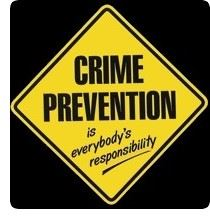
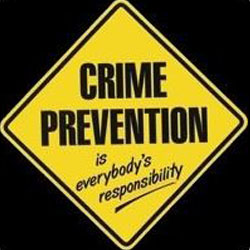
image resizing

diff --git a/resource-tip.html b/resource-tip.html
@@ -48,10 +48,10 @@
     </div>
   </nav>
 
-    <section id="top">
-        <img src="img/seattle-skyline.jpg" alt="Seattle Space Needle and buildings"
-            title="Image by Ally Laws from Pixabay" class="header-img">
-    </section>
+  <section id="top">
+    <img src="img/seattle-skyline.jpg" alt="Seattle Space Needle and buildings"
+        title="Image by Ally Laws from Pixabay" class="header-img">
+</section>
 
     <section id="section-0" class="container">
         <div class="jumbotron jumbotron-fluid bg-dark text-light">
@@ -69,7 +69,7 @@
             <div class="card-body">
               <div class="row">
                 <div class="col col-sm-auto col-xl-12">
-                  <img class="pb-3" src="img/crime-prevention.jpg" alt="Crime Prevention">
+                  <img class="pb-3 img-fluid" src="img/crime-prevention.jpg" alt="Crime Prevention">
                 </div>
                 <div class="col-sm">
                   <h2 class="card-title text-danger">Resource 1</h2>
@@ -87,7 +87,7 @@
             <div class="card-body">
               <div class="row">
                 <div class="col col-sm-auto col-xl-12">
-                  <img class="pb-3" src="img/Card2Img.jpeg" alt="Seattle Crime Prevention">
+                  <img class="pb-3 img-fluid" src="img/Card2Img.jpeg" alt="Seattle Crime Prevention">
                 </div>
                 <div class="col-sm">
                   <h2 class="card-title text-danger">Resource 2</h2>
@@ -106,7 +106,7 @@
             <div class="card-body">
               <div class="row">
                 <div class="col col-sm-auto col-xl-12">
-                  <img class="pb-3" src="img/report-crime.jpg" alt="Crime Reporting">
+                  <img class="pb-3 img-fluid" src="img/report-crime.jpg" alt="Crime Reporting">
                 </div>
                 <div class="col-sm">
                   <h2 class="card-title text-danger">Resource 3</h2>
@@ -124,7 +124,7 @@
           <div class="card-body">
             <div class="row">
               <div class="col col-sm-auto col-xl-12">
-                <img class="pb-3" src="img/Screen Shot 2023-01-30 at 6.03.01 PM.png" alt="">
+                <img class="pb-3 img-fluid" src="img/Screen Shot 2023-01-30 at 6.03.01 PM.png" alt="">
               </div>
               <div class="col-sm">
                 <h2 class="card-title text-danger">Resource 4</h2>

diff --git a/map.html b/map.html
@@ -68,11 +68,11 @@
 
     <section id="section-2" class="container">
         <p>Developer note: The following are static placeholders for the map that will be implemented.</p>
-        <img src="img/seamap-d0.jpg" alt="static placeholder map">
+        <img src="img/seamap-d0.jpg" alt="static placeholder map" class="img-fluid">
     </section>
 
-    <section id="section-3">
-        <img src="img/seamap-d1.jpg" alt="static placeholder map">
+    <section id="section-3" class="container">
+        <img src="img/seamap-d1.jpg" alt="static placeholder map" class="img-fluid">
     </section>
 
     <footer>

diff --git a/css/proposal.css b/css/proposal.css
@@ -21,7 +21,7 @@ h3 {
   font-style: bold;
 }
 
-img {
+.header-img {
   position: relative;
   padding-top: 58px;
   text-align: center;
